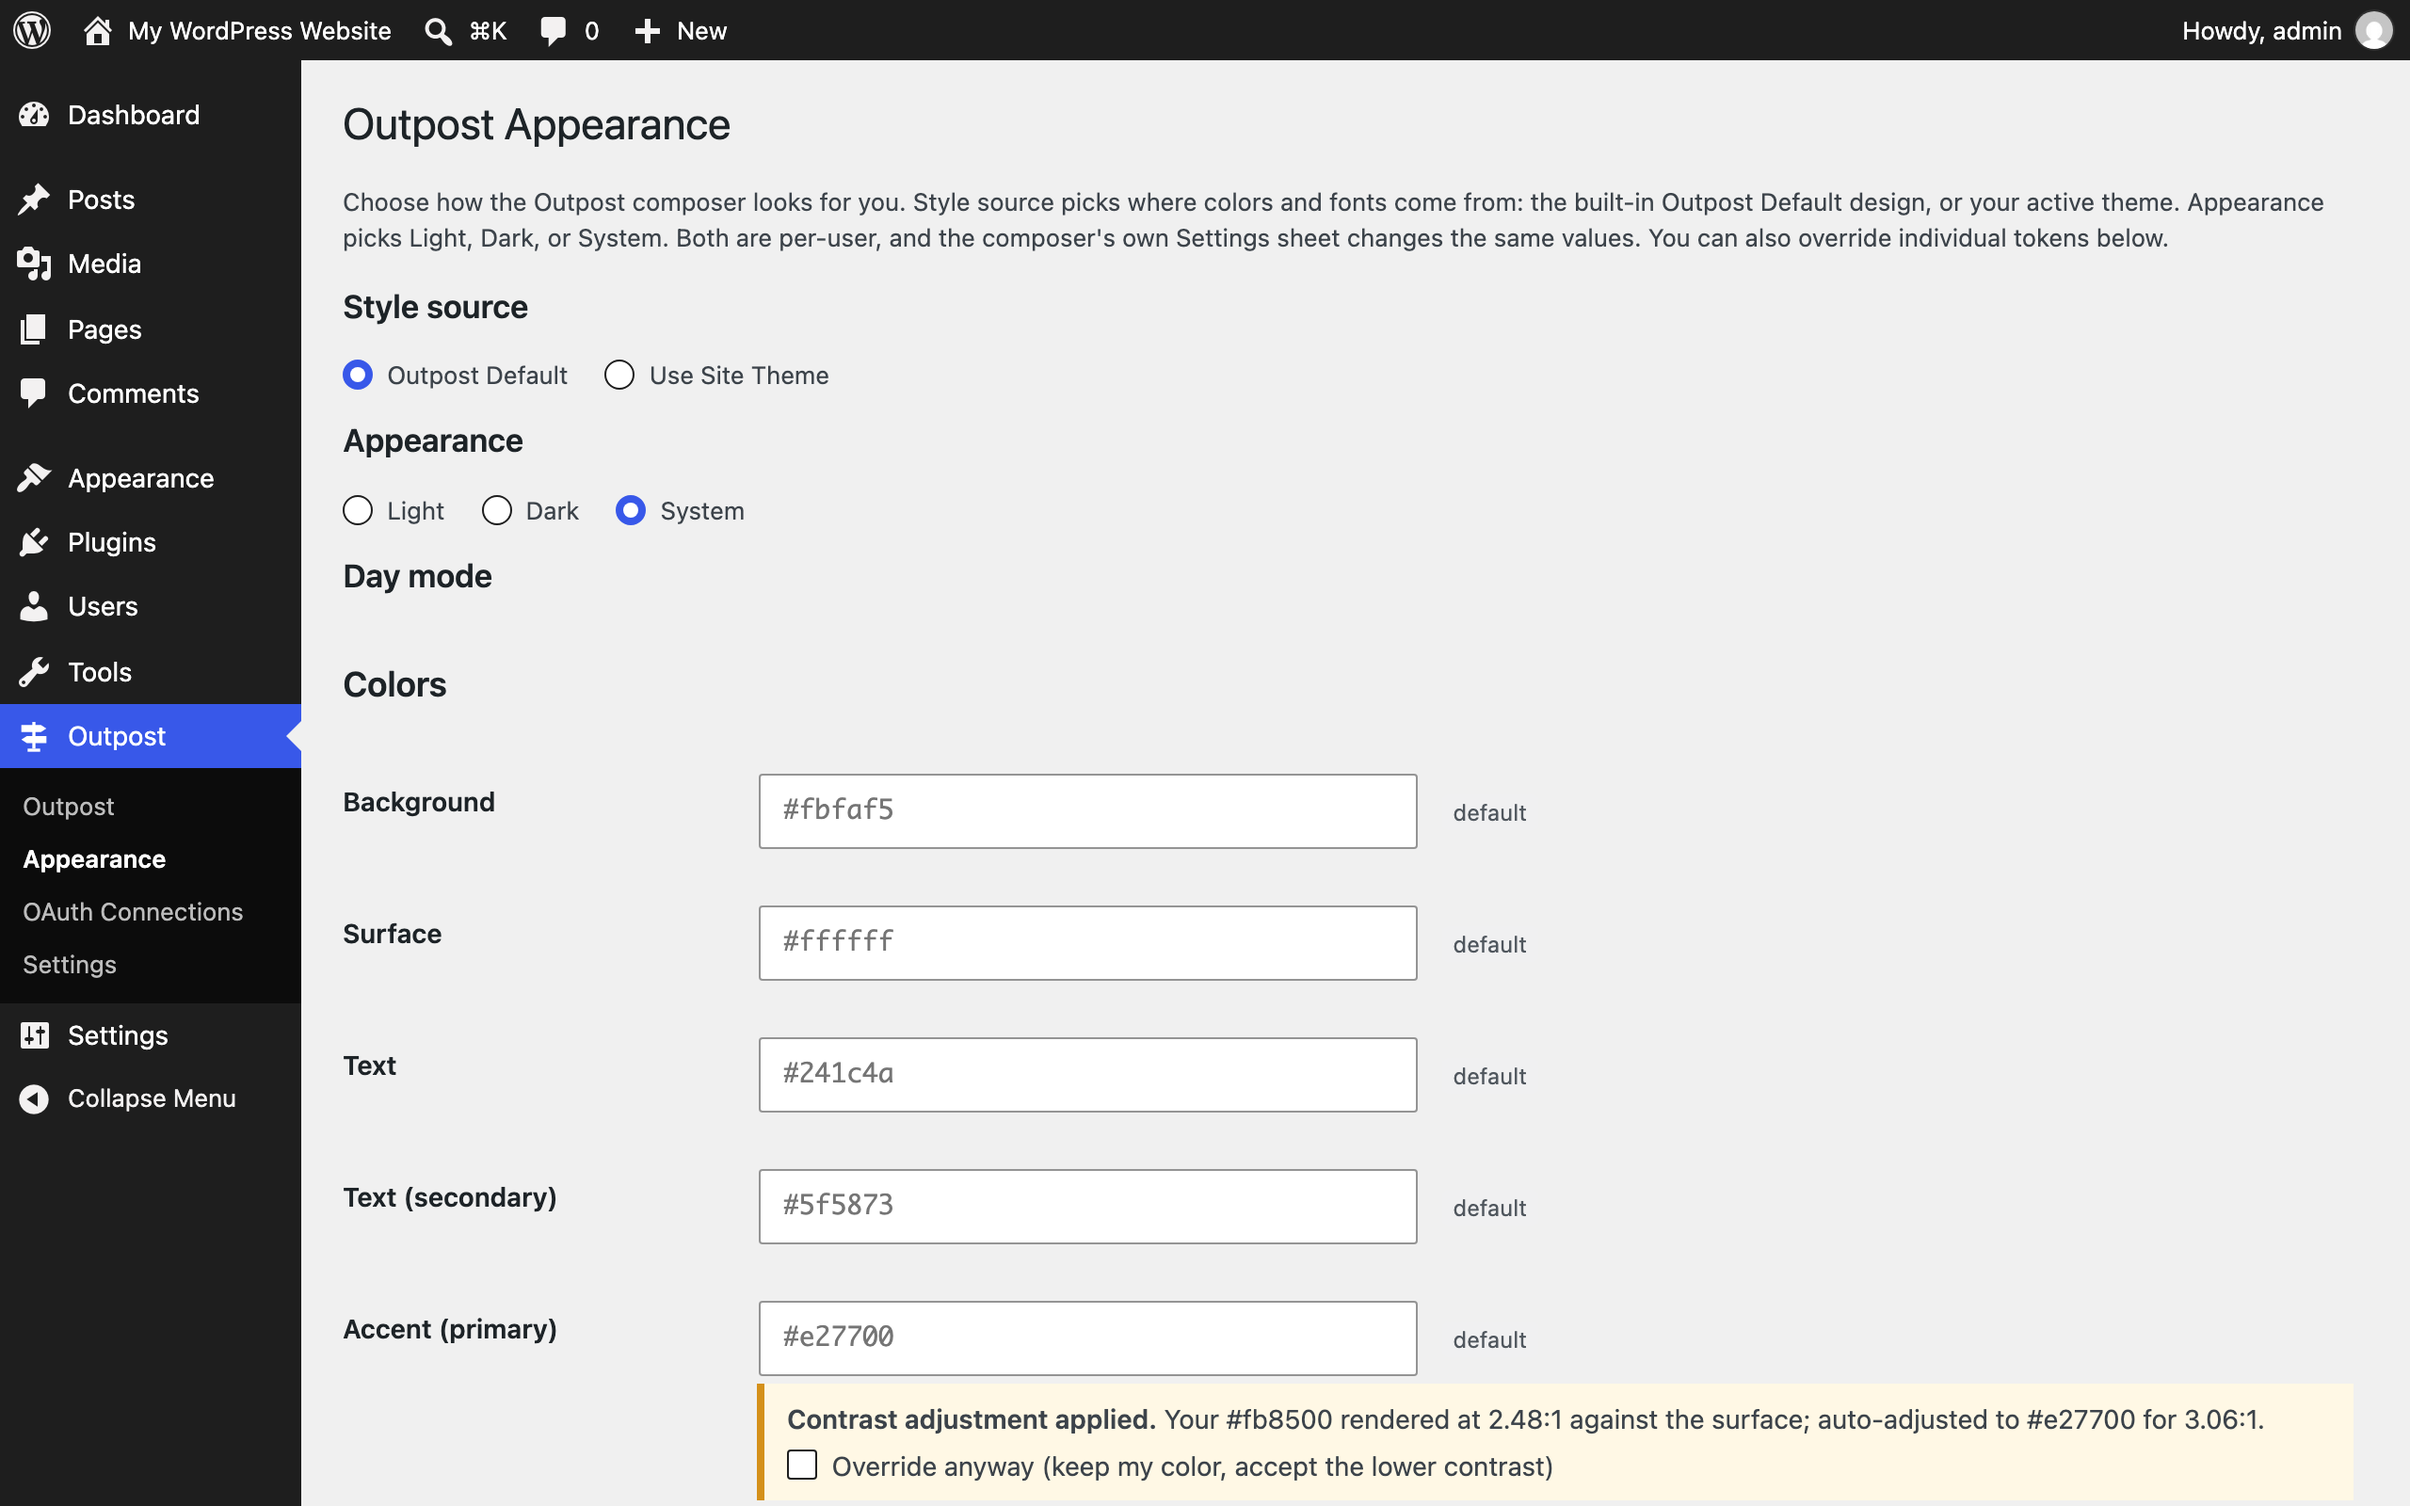
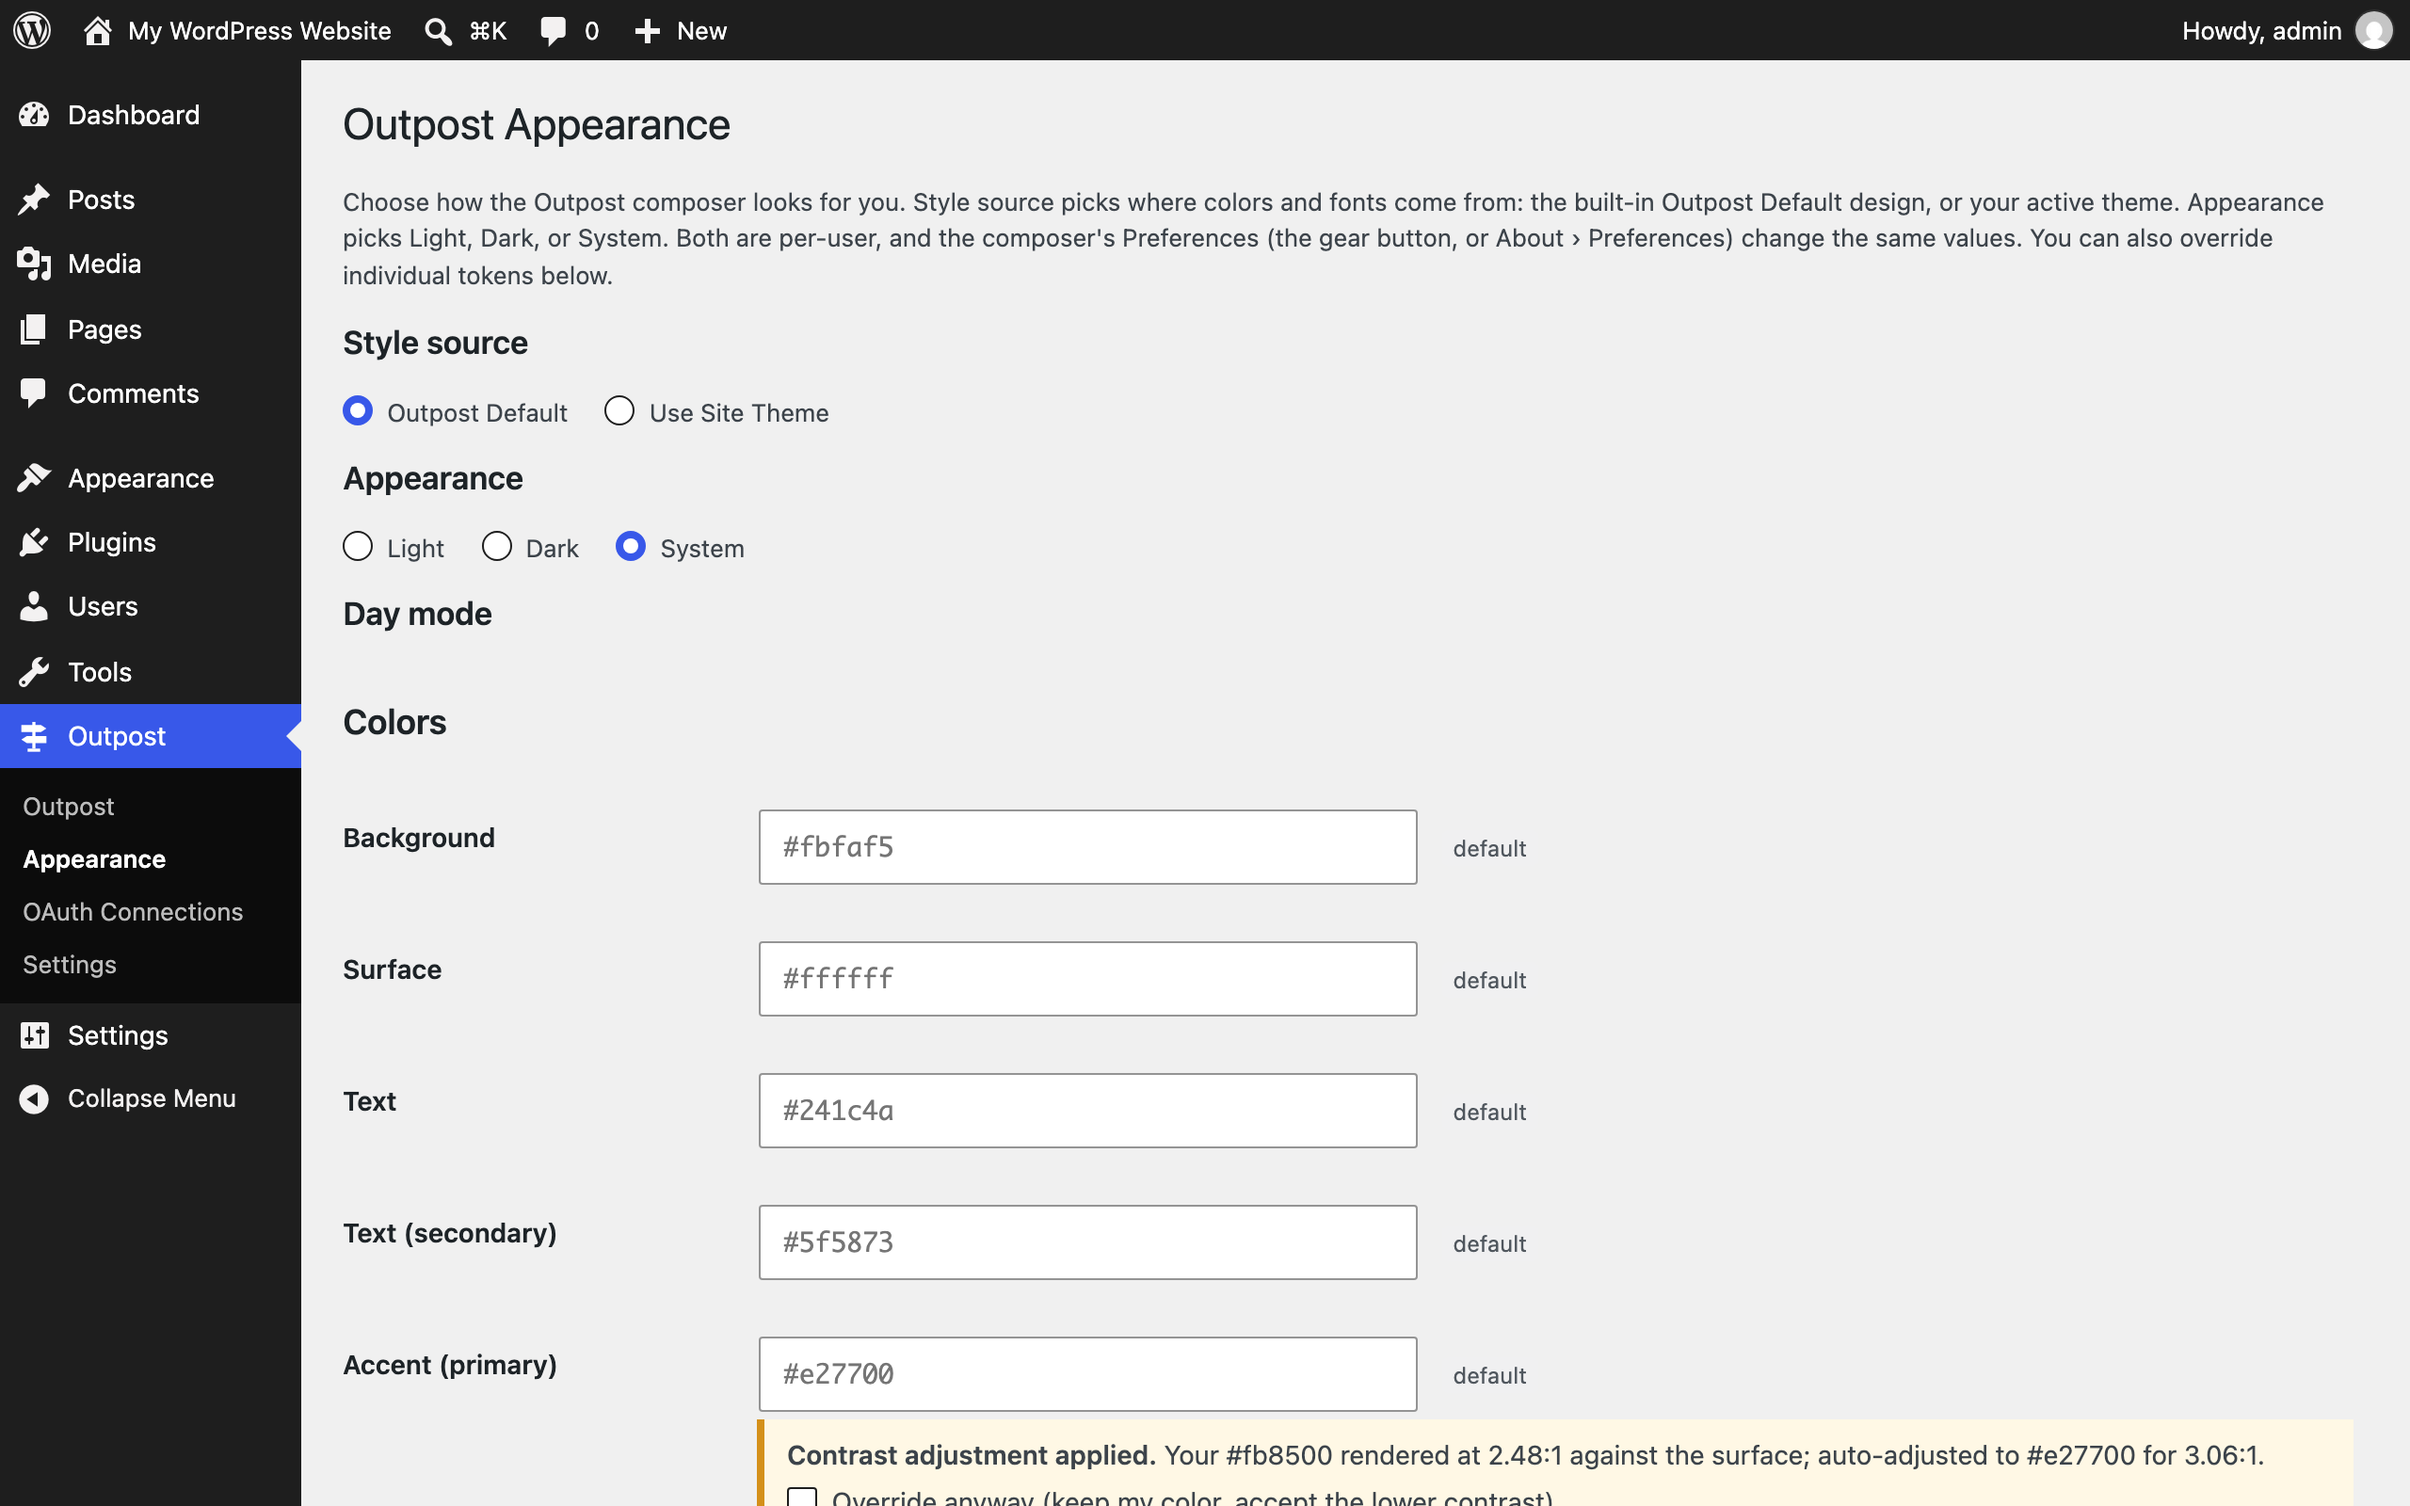
🐛 FIX: Call the composer's sheet Preferences in wp-admin, and drop an unverified preview claim
- The Appearance settings page told people "the composer's own Settings
  sheet changes the same values"; the sheet is Preferences since #288.
  It now names the gear button and About › Preferences. Screenshot
  recaptured.
- screenshots.md no longer says Show preview fetches the page: the
  preview failed in Playground for both 127.0.0.1 and indieweb.org, so
  the claim is unverified until someone tries it on a real site.
- The capture script's comment calls the cause inferred instead of
  stating it.

diff --git a/pwa/src/styles/structure.css b/pwa/src/styles/structure.css
@@ -2010,7 +2010,7 @@
 	outline-offset: 2px;
 }
 
-/* Settings sheet choices: native radios with the whole option as the
+/* Preferences choices: native radios with the whole option as the
  * hit target; selection shown by a 2px edge and weight, not color alone. */
 .outpost-settings {
 	display: flex;

diff --git a/includes/admin/class-appearance-settings-page.php b/includes/admin/class-appearance-settings-page.php
@@ -73,7 +73,7 @@ final class Outpost_Appearance_Settings_Page {
 
 			<?php self::render_admin_notice(); ?>
 
-			<p><?php esc_html_e( 'Choose how the Outpost composer looks for you. Style source picks where colors and fonts come from: the built-in Outpost Default design, or your active theme. Appearance picks Light, Dark, or System. Both are per-user, and the composer\'s own Settings sheet changes the same values. You can also override individual tokens below.', 'outpost-mobile-publishing' ); ?></p>
+			<p><?php esc_html_e( 'Choose how the Outpost composer looks for you. Style source picks where colors and fonts come from: the built-in Outpost Default design, or your active theme. Appearance picks Light, Dark, or System. Both are per-user, and the composer\'s Preferences (the gear button, or About › Preferences) change the same values. You can also override individual tokens below.', 'outpost-mobile-publishing' ); ?></p>
 
 			<form method="post" action="<?php echo esc_url( admin_url( 'admin-post.php' ) ); ?>" class="outpost-appearance-form">
 				<input type="hidden" name="action" value="<?php echo esc_attr( self::SAVE_ACTION ); ?>">

diff --git a/docs/src/content/docs/screenshots.md b/docs/src/content/docs/screenshots.md
@@ -65,7 +65,7 @@ Note mode, signed in: write a note and pick syndication targets before posting. 
 
 ![Reply mode on a phone with its eleven types as wrapping tiles, a target URL in In reply to, and a reply being written](../../assets/screenshots/frontend-composer-reply-mode.png)
 
-Reply mode: pick a type, paste the URL you're replying to, and write your reply. **Show preview** fetches the page so you can check it. See [Common tasks](/outpost/common-tasks/).
+Reply mode: pick a type, paste the URL you're replying to, and write your reply. See [Common tasks](/outpost/common-tasks/).
 
 ![Photo mode with an uploaded image and the required alt text field](../../assets/screenshots/frontend-composer-photo-mode.png)
 
